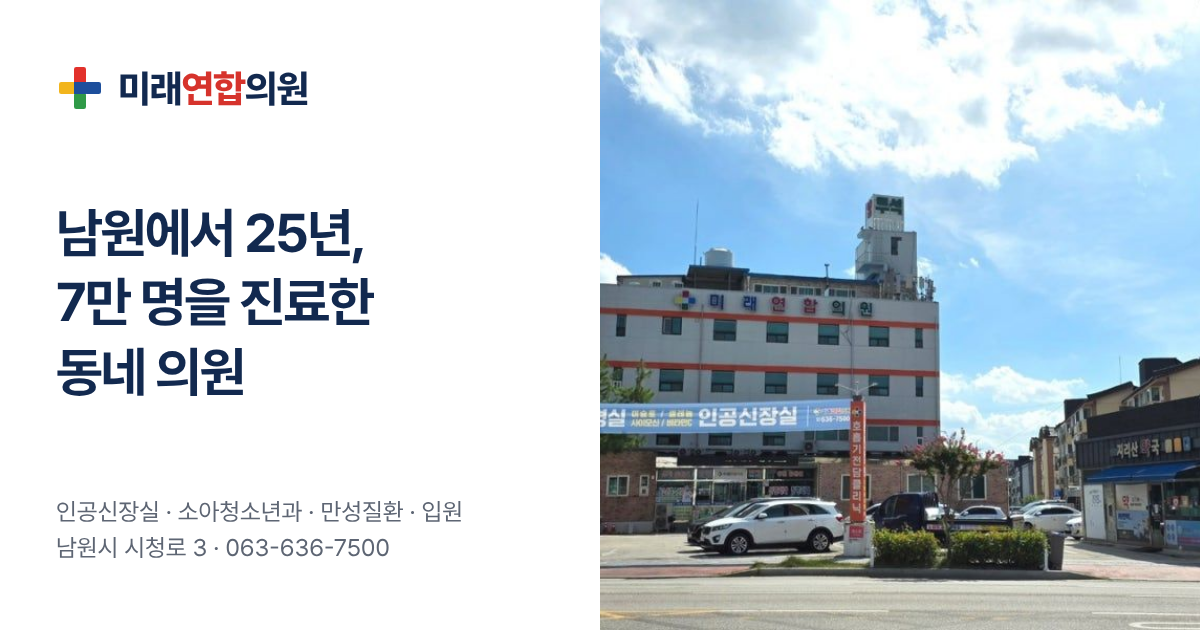
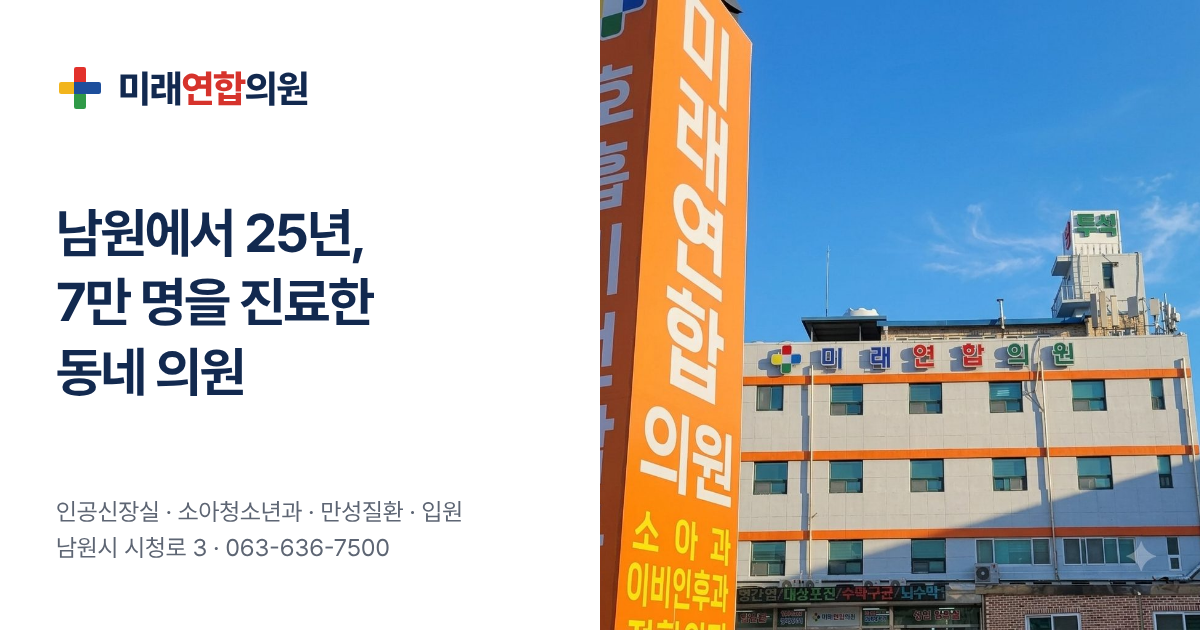
새 건물 사진(메인·공유 이미지), 원장님 고화질 사진(의료진·소아청소년과) 반영
Claude-Session: https://claude.ai/code/session_01KKgnXFrwmaEXnbpT9hgnCc

diff --git a/projects/clinic-website/index.html b/projects/clinic-website/index.html
@@ -295,7 +295,7 @@
         <a class="btn ghost" href="#location">오시는 길</a>
       </div>
     </div>
-    <figure class="hero-photo"><img src="/assets/img/building.jpg" alt="남원 시청로 미래연합의원 건물과 1층 인공신장실, 정문 앞 무료 주차장" width="800" height="601"><figcaption>1층 인공신장실과 정문 앞 무료 주차장</figcaption></figure>
+    <figure class="hero-photo"><img src="/assets/img/building-front.jpg" alt="남원 시청로 3 미래연합의원 건물과 옥상 투석 간판" width="1024" height="1024" style="object-position:center 62%"><figcaption>남원 시청로 3 미래연합의원</figcaption></figure>
   </div>
   <div class="wrap">
     <div class="stats">
@@ -324,7 +324,7 @@
 
 <section class="soft" id="doctor">
   <div class="wrap doctor">
-    <img class="photo" src="/assets/img/doctor.jpg" alt="미래연합의원 양윤정 원장" width="300" height="375" loading="lazy">
+    <img class="photo" src="/assets/img/doctor.jpg" alt="미래연합의원 양윤정 원장" width="860" height="830" loading="lazy">
     <div>
       <p class="eyebrow" style="color:var(--red);font-weight:700;margin:0 0 6px">원장</p>
       <h3>양윤정</h3>

diff --git a/projects/clinic-website/pediatrics/index.html b/projects/clinic-website/pediatrics/index.html
@@ -277,7 +277,8 @@
 <main>
 <div class="wrap breadcrumb"><a href="/">홈</a> › 소아청소년과</div>
 <section class="hero">
-  <div class="wrap">
+  <div class="wrap hero-grid">
+  <div>
     <p class="eyebrow">남원 미래연합의원 소아청소년과</p>
     <h1>남원 소아청소년과,<br>전문의가 직접 봅니다</h1>
     <div class="answer">
@@ -285,9 +286,11 @@
       열, 감기, 장염부터 영유아 검진, 예방접종, 소아 입원까지 한 곳에서 봅니다.
     </div>
     <div class="btn-row">
-      <a class="btn primary" href="tel:0636367500">전화 문의</a>
+      <a class="btn primary" href="tel:0636367500">전화 문의 063-636-7500</a>
       <a class="btn ghost" href="#fever">열날 때 체크리스트</a>
     </div>
+  </div>
+  <figure class="hero-photo" style="background:#fff"><img src="/assets/img/doctor.jpg" alt="미래연합의원 양윤정 원장, 소아청소년과 전문의" width="860" height="830" style="object-position:center top"><figcaption>양윤정 원장 · 소아청소년과 전문의 · 대한소아신장학회 정회원</figcaption></figure>
   </div>
 </section>
 

diff --git a/projects/clinic-website/_src/pediatrics.html b/projects/clinic-website/_src/pediatrics.html
@@ -20,7 +20,8 @@
 }
 META-->
 <section class="hero">
-  <div class="wrap">
+  <div class="wrap hero-grid">
+  <div>
     <p class="eyebrow">남원 미래연합의원 소아청소년과</p>
     <h1>남원 소아청소년과,<br>전문의가 직접 봅니다</h1>
     <div class="answer">
@@ -28,9 +29,11 @@ META-->
       열, 감기, 장염부터 영유아 검진, 예방접종, 소아 입원까지 한 곳에서 봅니다.
     </div>
     <div class="btn-row">
-      <a class="btn primary" href="{{tel}}">전화 문의</a>
+      <a class="btn primary" href="{{tel}}">전화 문의 {{phone}}</a>
       <a class="btn ghost" href="#fever">열날 때 체크리스트</a>
     </div>
+  </div>
+  <figure class="hero-photo" style="background:#fff"><img src="/assets/img/doctor.jpg" alt="미래연합의원 양윤정 원장, 소아청소년과 전문의" width="860" height="830" style="object-position:center top"><figcaption>양윤정 원장 · 소아청소년과 전문의 · 대한소아신장학회 정회원</figcaption></figure>
   </div>
 </section>
 

diff --git a/projects/clinic-website/_src/home.html b/projects/clinic-website/_src/home.html
@@ -31,7 +31,7 @@ META-->
         <a class="btn ghost" href="#location">오시는 길</a>
       </div>
     </div>
-    <figure class="hero-photo"><img src="/assets/img/building.jpg" alt="남원 시청로 미래연합의원 건물과 1층 인공신장실, 정문 앞 무료 주차장" width="800" height="601"><figcaption>1층 인공신장실과 정문 앞 무료 주차장</figcaption></figure>
+    <figure class="hero-photo"><img src="/assets/img/building-front.jpg" alt="남원 시청로 3 미래연합의원 건물과 옥상 투석 간판" width="1024" height="1024" style="object-position:center 62%"><figcaption>남원 시청로 3 미래연합의원</figcaption></figure>
   </div>
   <div class="wrap">
     <div class="stats">

diff --git a/projects/clinic-website/build.py b/projects/clinic-website/build.py
@@ -186,7 +186,7 @@ def fill(text):
         "{{doctor_list}}": doctor_list(), "{{equipment_list}}": equipment_list(), "{{parking}}": S["parking"],
         "{{doctor_name}}": S["doctor"]["name"],
         "{{doctor_photo}}": (
-            f'<img class="photo" src="/assets/img/doctor.jpg" alt="{S["name"]} {S["doctor"]["name"]} 원장" width="300" height="375" loading="lazy">'
+            f'<img class="photo" src="/assets/img/doctor.jpg" alt="{S["name"]} {S["doctor"]["name"]} 원장" width="860" height="830" loading="lazy">'
             if (ROOT / "assets/img/doctor.jpg").exists() else '<div class="photo">원장님 사진<br>(assets/img/doctor.jpg)</div>'
         ),
     }
